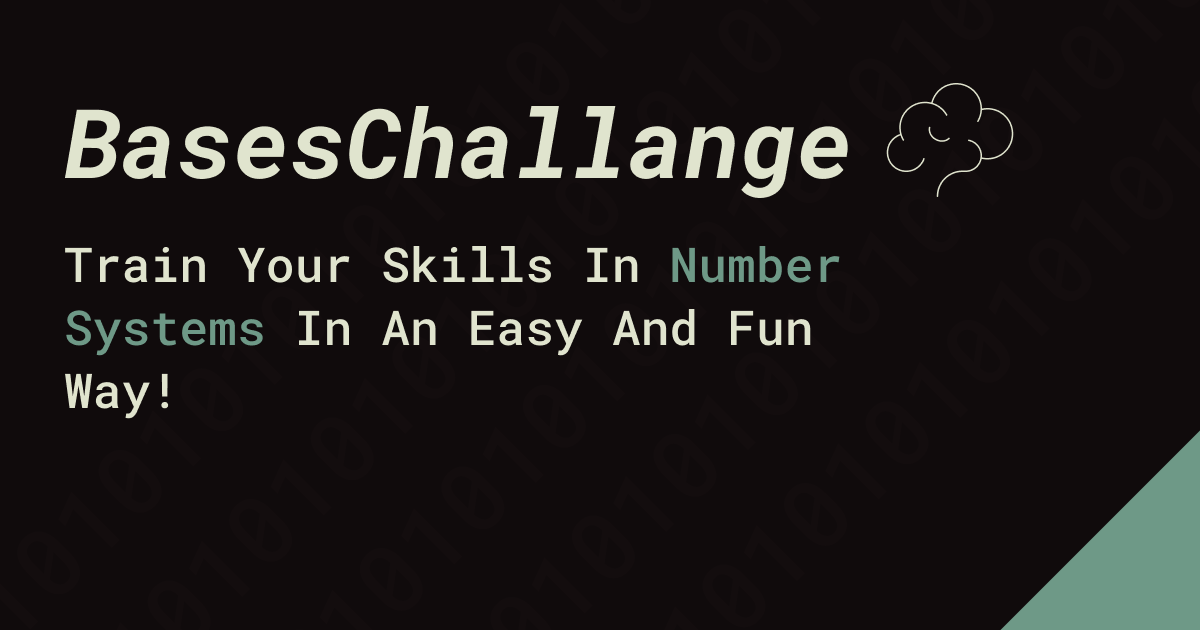
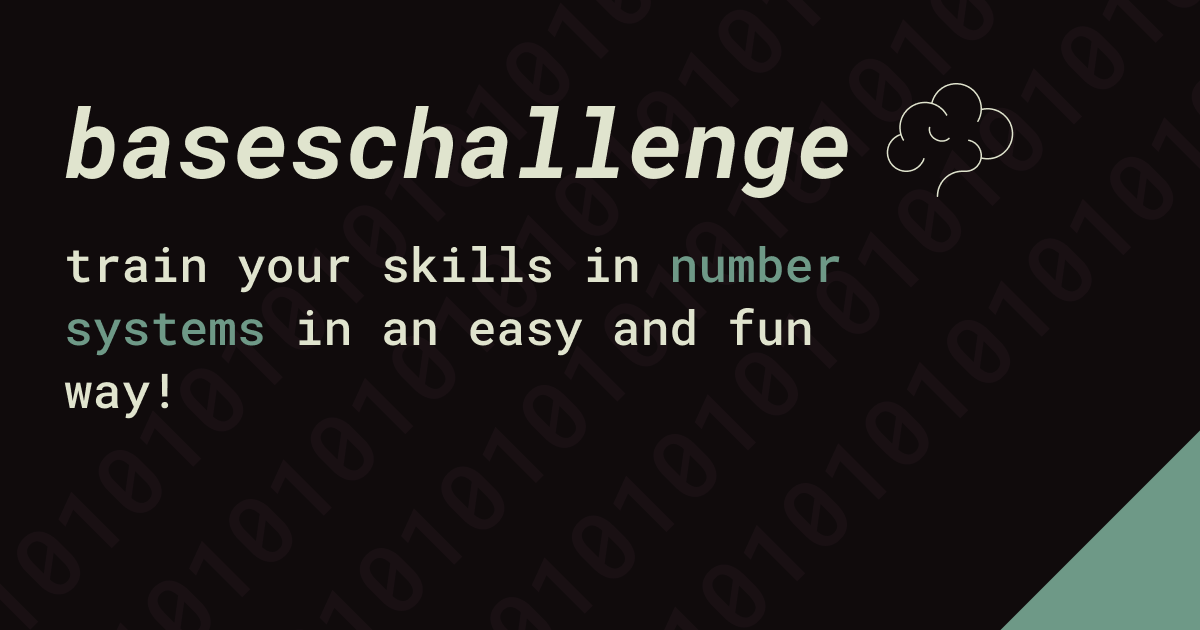
rename baseschallange to baseschallenge

diff --git a/app/metadata.ts b/app/metadata.ts
@@ -1,7 +1,7 @@
 import { Metadata } from "next";
 
 const metadata: Metadata = {
-  title: "Bases Challange",
+  title: "bases challenge",
   description: "A numeric base conversion challenge.",
   icons: {
     apple: "/favicon.ico",
@@ -14,16 +14,16 @@ const metadata: Metadata = {
       {
         width: 1920,
         height: 1080,
-        url: "https://github.com/jotavetech/baseschallange/raw/main/public/assets/banner.png",
-        alt: "baseschallange website cover",
+        url: "https://github.com/jotavetech/baseschallenge/raw/main/public/assets/banner.png",
+        alt: "baseschallenge website cover",
       },
     ],
     locale: "en",
-    title: "Bases Challange",
-    siteName: "Bases Challange",
+    title: "Bases Challenge",
+    siteName: "Bases Challenge",
     description: "Train your skills in numeric systems in a fun way.",
     type: "website",
-    url: "https://baseschallange.vercel.app",
+    url: "https://baseschallenge.vercel.app",
   },
   publisher: "Jotavetech",
   twitter: {
@@ -31,12 +31,12 @@ const metadata: Metadata = {
       {
         width: 1920,
         height: 1080,
-        url: "https://github.com/jotavetech/baseschallange/raw/main/public/assets/banner.png",
-        alt: "baseschallange website cover",
+        url: "https://github.com/jotavetech/baseschallenge/raw/main/public/assets/banner.png",
+        alt: "baseschallenge website cover",
       },
     ],
     card: "summary_large_image",
-    title: "baseschallange",
+    title: "baseschallenge",
     description: "Train your skills in numeric systems in a fun way.",
     site: "@jotavetech",
     creator: "João Vitor Gugel (jotavetech)",

diff --git a/app/faq/page.tsx b/app/faq/page.tsx
@@ -8,7 +8,7 @@ const FaqPage = () => {
       </h1>
       <ul className="px-10 mt-10 max-w-[600px] space-y-10">
         <Question
-          title="- How does the baseschallange game work?"
+          title="- How does the baseschallenge game work?"
           description="The game randomly generates five numbers in a specific format: hexadecimal, binary, or decimal. Your task is to convert these numbers to the other selected format."
         />
         <Question

diff --git a/README.md b/README.md
@@ -1,25 +1,25 @@
-# baseschallange 👨💻
+# baseschallenge 👨💻
 
-Welcome to baseschallange game! This is a game to train and improve your skills in converting number bases to others, doing this in a fun, simple, and dynamic way.
+Welcome to baseschallenge game! This is a game to train and improve your skills in converting number bases to others, doing this in a fun, simple, and dynamic way.
 Built with: NextJS, TailwindCSS, Typescript & Figma.
 
 ## How to Play? 🕹
 
-1. Join in the [baseschallange](https://baseschallange.vercel.app) website.
+1. Join in the [baseschallenge](https://baseschallenge.vercel.app) website.
 2. Select the numeric base you want to generate and convert.
 3. Write the converted number in the input and submit by pressing Enter or clicking the submit button.
 4. Now, if you make a mistake, the game will show you the correct result and generate another number. If not, it will simply move to the next number, increasing your score.
 5. After 5 rounds, the game will end and show you the result, allowing you to play again and share with your friends.
 
-🔥 If you have more questions, you can consult our [FAQ](https://baseschallange.vercel.app/faq).
+🔥 If you have more questions, you can consult our [FAQ](https://baseschallenge.vercel.app/faq).
 
 ## How to Run? 💽
 
 Create a clone of this repository and enter on directory:
 
 ```bash
-$ git clone https://github.com/jotavetech/baseschallange
-$ cd baseschallange
+$ git clone https://github.com/jotavetech/baseschallenge
+$ cd baseschallenge
 ```
 
 To run this project you will also need [NodeJS](https://nodejs.org/en) installed.
